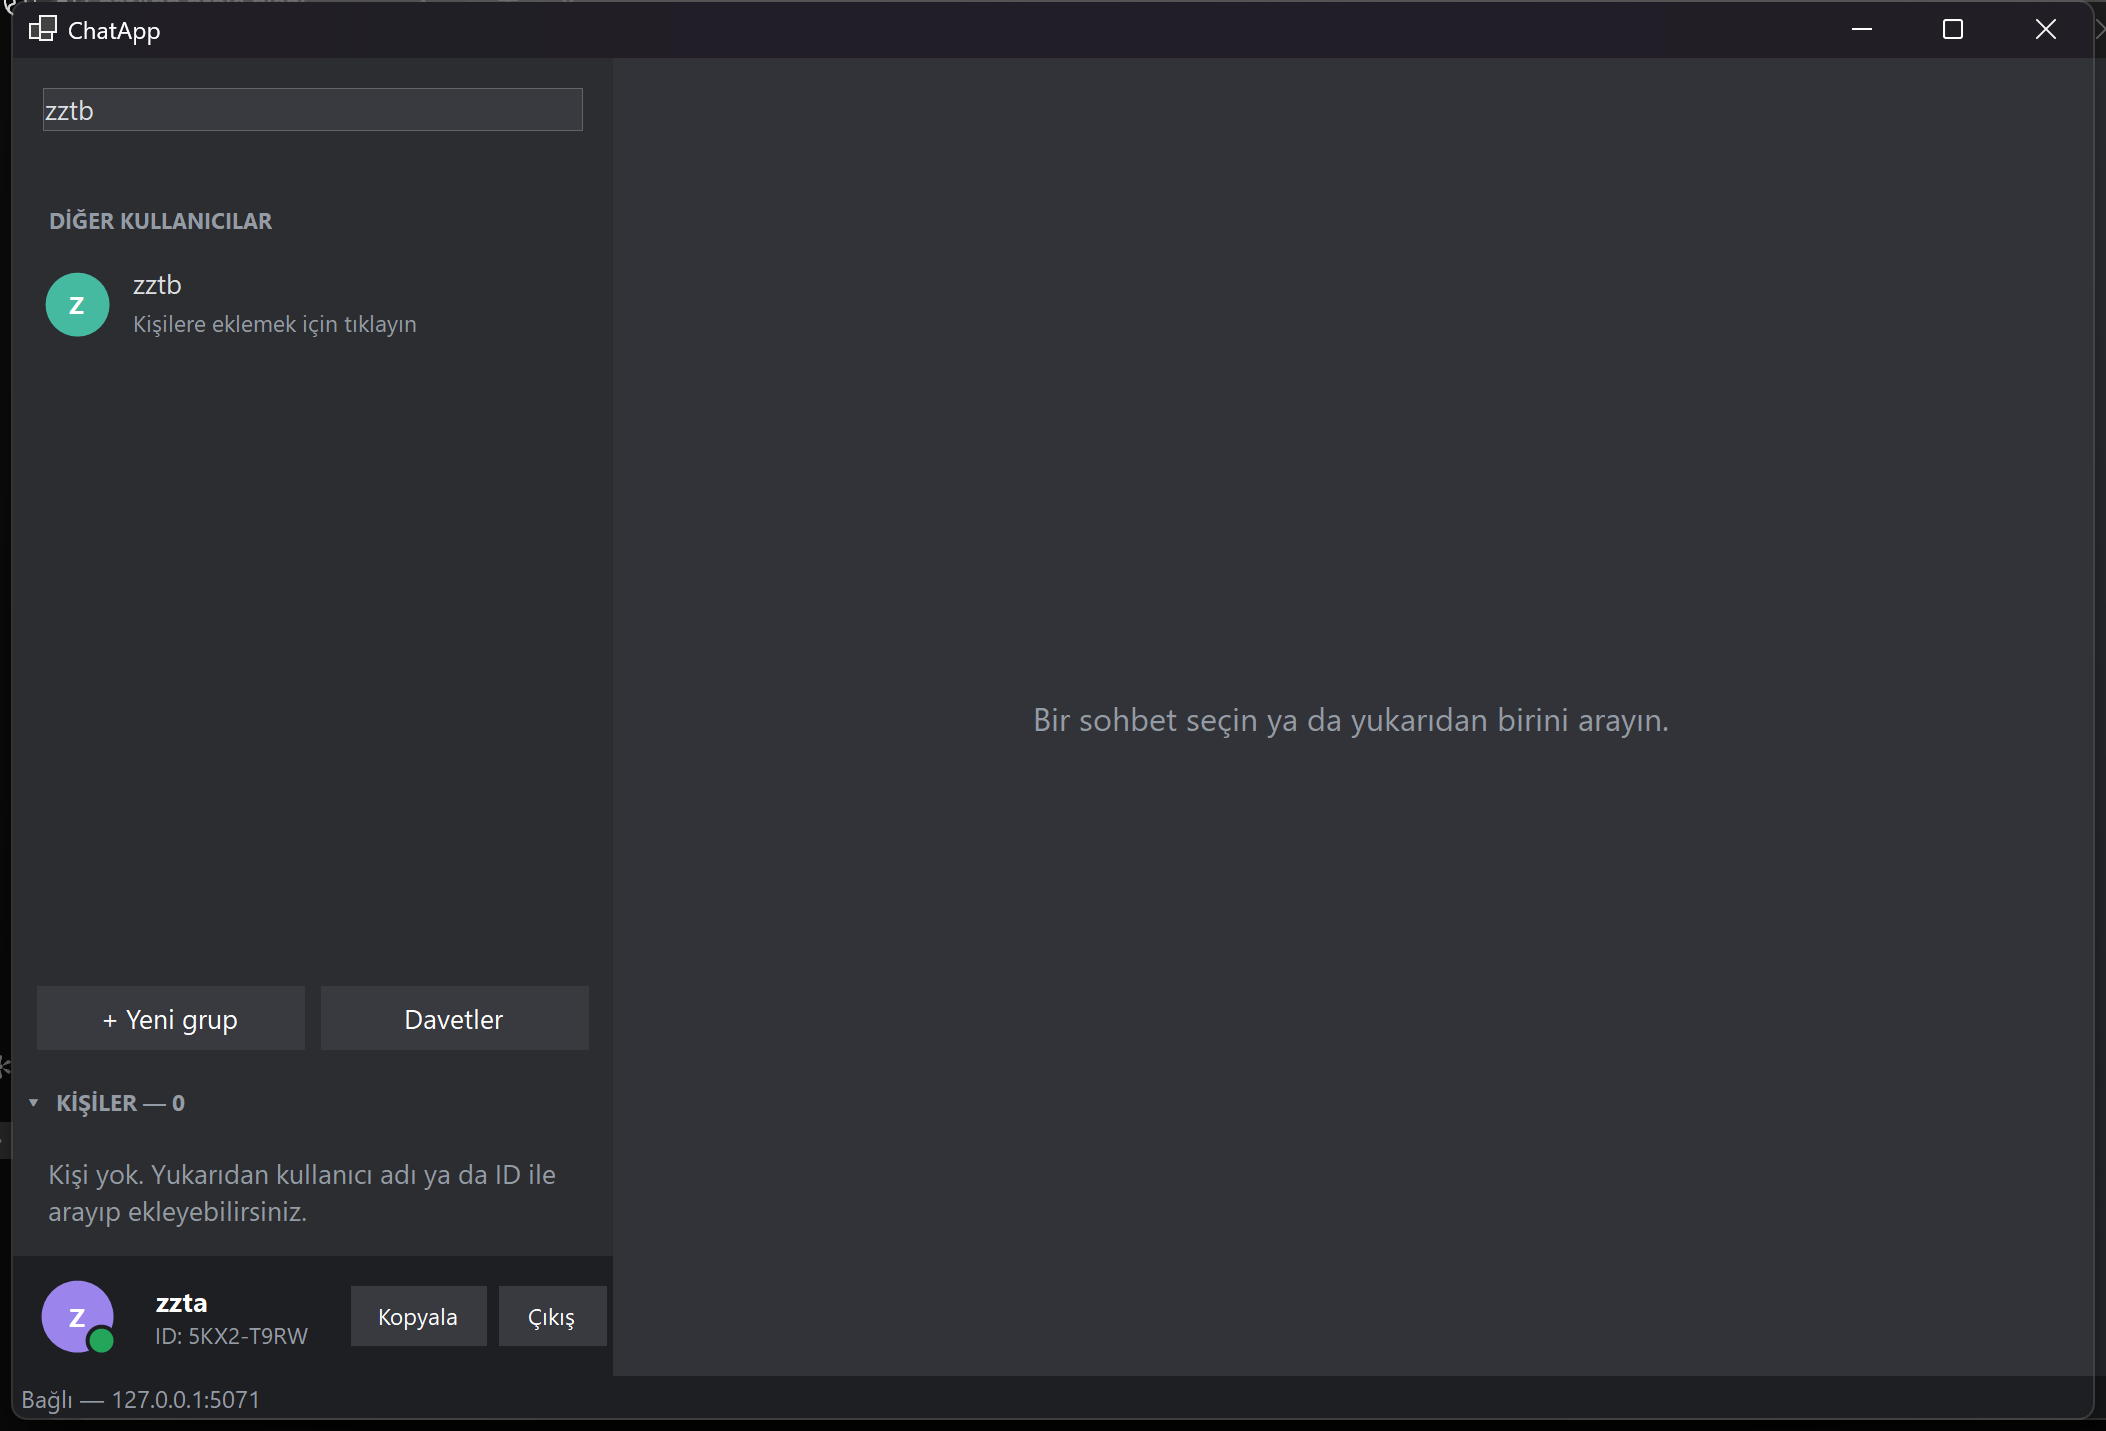
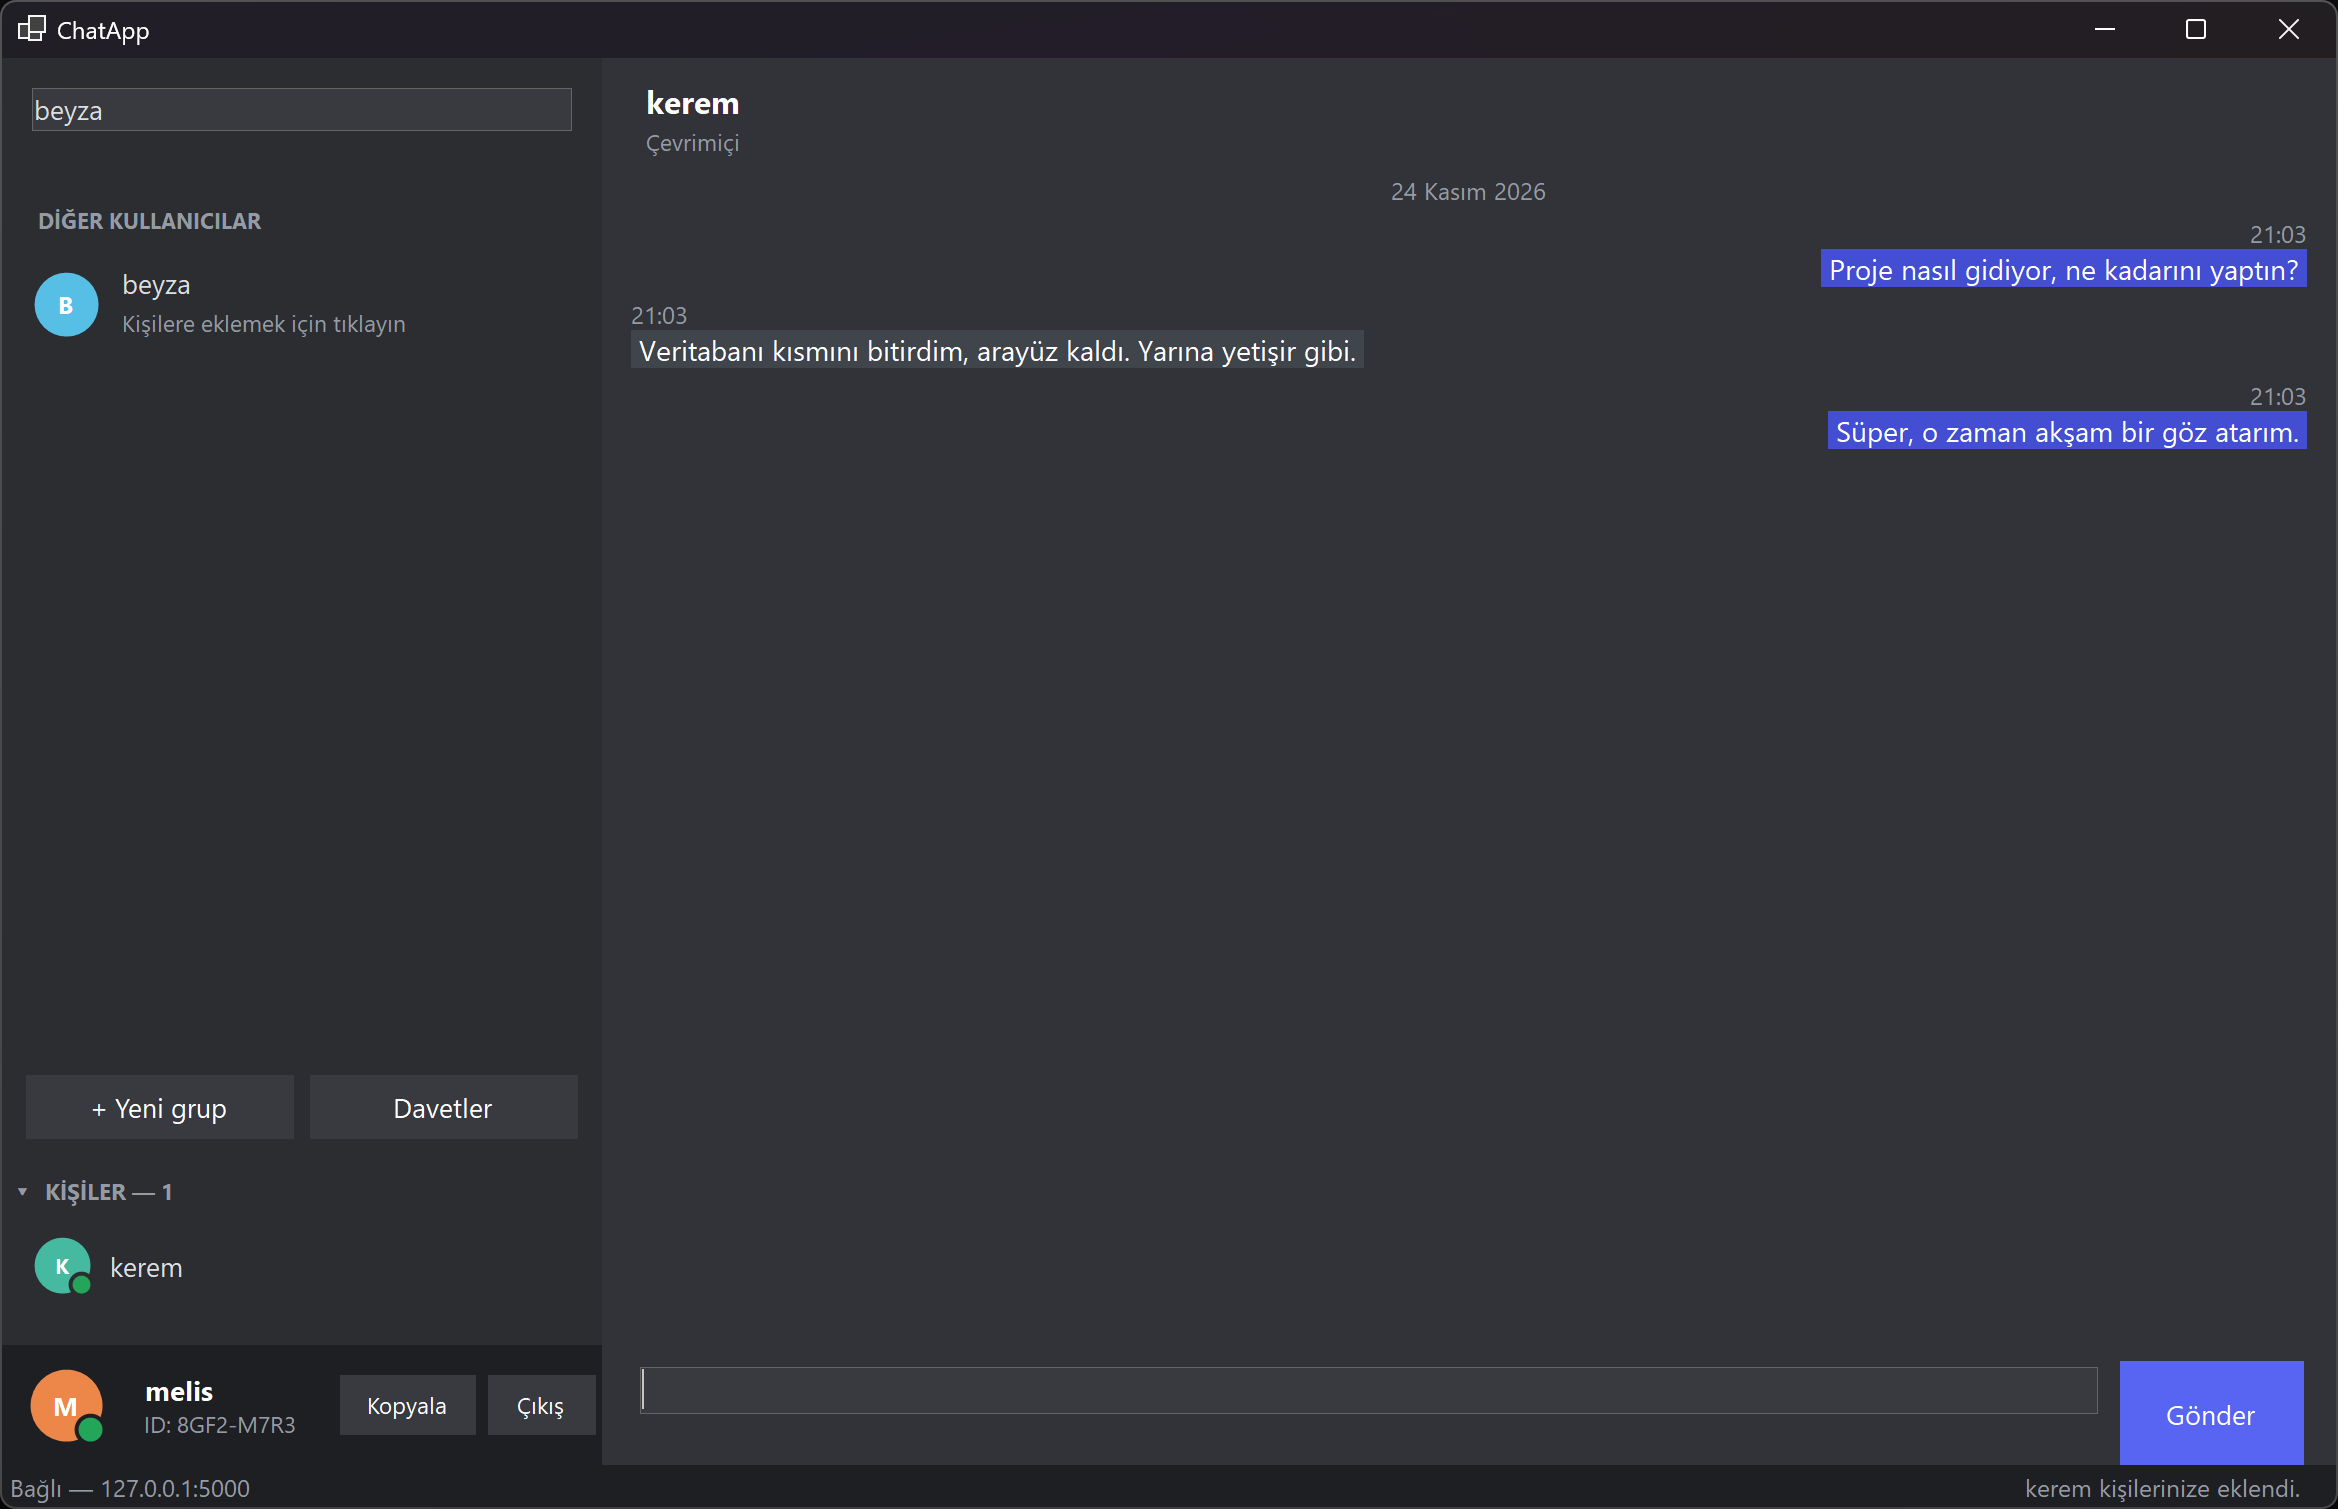
docs: add architecture sequence diagrams and refresh screenshots
Add docs/mimari.md with Mermaid sequence diagrams for the register/login
handshake, private message delivery and group message broadcast, and link
it from the README. Retake all five screenshots with realistic data on a
clean backdrop and add the search screenshot to the README.

diff --git a/docs/mimari.md b/docs/mimari.md
@@ -1,0 +1,205 @@
+# Mimari
+
+Bu belge sunucunun üç temel akışını [Mermaid](https://mermaid.js.org/) sıra diyagramlarıyla gösterir. İstemci ile sunucu arasındaki her mesaj, TCP üzerinde satır başına bir JSON nesnesi olarak (`ChatMessage`) iletilir; mesaj türü `MessageType`, hata nedeni `ErrorCode` alanındadır. Sunucu hazır hata metni göndermez, Türkçe açıklamayı istemci üretir.
+
+İlgili kodlar: `ChatServer/ChatServerHost*.cs`, `ChatServer/Storage/*Repository.cs`, `ChatShared/PasswordHasher.cs`.
+
+## 1. Kayıt / giriş el sıkışması
+
+Bağlantıdan sonra ilk mesaj, süre sınırı (`JoinTimeout`) içinde gelen geçerli bir `Register` ya da `Login` olmalıdır; aksi halde bağlantı kapatılır. Kayıt ve giriş denemeleri bağlantı adresi başına hız sınırına (`AuthAttemptLimiter`) tabidir.
+
+Zamanlama saldırısı koruması iki parçadır:
+
+- Kullanıcı adı kayıtlı olmasa bile sahte bir hash (`DummyPasswordHash`) ile gerçek bir PBKDF2 doğrulaması yapılır; yanıt süresine bakarak hangi kullanıcı adlarının var olduğu anlaşılamaz.
+- Hash karşılaştırması `CryptographicOperations.FixedTimeEquals` ile sabit sürede yapılır.
+
+Ayrıca kullanıcı adı yanlış da olsa parola yanlış da olsa istemciye aynı hata (`InvalidCredentials`) döner. Parola hiçbir zaman günlüğe yazılmaz.
+
+```mermaid
+sequenceDiagram
+    autonumber
+    actor C as İstemci
+    participant S as ChatServerHost
+    participant L as AuthAttemptLimiter
+    participant U as UserRepository
+    participant P as PasswordHasher
+
+    C->>S: TCP bağlantısı
+    alt JoinTimeout içinde mesaj gelmez
+        S--)C: bağlantıyı kapatır
+    end
+
+    C->>S: Register ya da Login (kullanıcı adı, parola)
+
+    alt Mesaj çözümlenemez
+        S-->>C: Error (InvalidMessage), bağlantı kapanır
+    else İlk mesaj Register/Login değil
+        S-->>C: Error (NotJoined), bağlantı kapanır
+    end
+
+    S->>L: TryAcquire(uç nokta)
+    alt Deneme sınırı aşıldı
+        S-->>C: JoinRejected (TooManyAttempts), bağlantı kapanır
+    end
+
+    alt RegisterRequest
+        S->>S: UsernameValidator + PasswordValidator
+        alt Kural ihlali
+            Note over S: UsernameInvalid ya da PasswordInvalid
+        else Kurallara uygun
+            S->>P: Hash(parola) [thread havuzunda]
+            P-->>S: pbkdf2-sha256$600000$tuz$hash
+            S->>U: CreateAsync(kullanıcı adı, hash)
+            alt Kullanıcı adı alınmış
+                U-->>S: null
+                Note over S: UsernameTaken
+            else Hesap oluştu
+                U-->>S: UserRecord (yeni UserId)
+            end
+        end
+    else LoginRequest
+        S->>U: FindByUsernameAsync(kullanıcı adı)
+        U-->>S: UserRecord ya da null
+        Note over S: Kullanıcı yoksa saklı hash yerine<br/>DummyPasswordHash kullanılır
+        S->>P: Verify(parola, saklı ya da sahte hash) [thread havuzunda]
+        Note over P: PBKDF2 yeniden türetilir,<br/>FixedTimeEquals ile karşılaştırılır
+        P-->>S: doğru / yanlış
+        Note over S: Kullanıcı yok ya da parola yanlış ise<br/>her ikisinde de InvalidCredentials
+    end
+
+    alt Başarısız (hata kodu != None)
+        S-->>C: JoinRejected (ErrorCode)
+        Note over S,C: UsernameTaken, UsernameInvalid, PasswordInvalid,<br/>InvalidCredentials, ServerError ...
+        S--)C: bağlantı kapanır
+    else Başarılı
+        S->>S: _membershipLock altında oturumu kaydeder
+        alt Hesap zaten çevrimiçi
+            S-->>C: JoinRejected (AccountAlreadyOnline), bağlantı kapanır
+        else Oturum kabul edildi
+            S-->>C: JoinAccepted (kullanıcı adı, UserId, çevrimiçi liste)
+            S--)C: ContactList, GroupList, InviteList
+            S--)C: Bekleyen mesajlar (bkz. Akış 2)
+        end
+    end
+```
+
+## 2. Özel mesaj teslimatı
+
+Alıcı kullanıcı adı ya da ID ile verilebilir. Çevrimiçi alıcıya mesaj doğrudan iletilir ve veritabanına yazılmaz. Alıcı çevrimdışıysa (ya da gönderim sırasında düştüyse) mesaj `PendingMessages` tablosuna eklenir ve alıcı bir sonraki girişinde teslim edilir. Mesaj içeriği sunucu günlüğüne yazılmaz.
+
+```mermaid
+sequenceDiagram
+    autonumber
+    actor A as Gönderen (A)
+    participant S as ChatServerHost
+    participant U as UserRepository
+    participant R as MessageRouter
+    participant M as MessageRepository
+    participant DB as PendingMessages
+    actor B as Alıcı (B)
+
+    A->>S: Private (alıcı, metin)
+    S->>S: Hız sınırı, metin ve alıcı doğrulaması
+    S->>U: FindByUsernameOrIdAsync(alıcı)
+    alt Alıcı yok
+        S-->>A: Error (RecipientNotFound)
+    else Alıcı kendisi
+        S-->>A: Error (InvalidMessage)
+    end
+
+    alt B çevrimiçi
+        S->>R: SendToAsync(B, Private)
+        R-->>B: Private (gönderen, metin, UTC zaman damgası)
+        S->>R: SendToAsync(A, Private)
+        R-->>A: Private (aynı kopya: iletildi onayı ve sunucu saati)
+    else B çevrimdışı (ya da gönderim sırasında düştü)
+        S->>M: EnqueueAsync(A, B, metin, UTC)
+        M->>DB: INSERT (RecipientId, SenderId, Payload, SentAt)
+        alt B'nin kutusu dolu (MaxPendingMessagesPerRecipient)
+            M-->>S: false
+            S-->>A: Error (RecipientInboxFull)
+        else Kuyruğa alındı
+            M-->>S: true
+            S->>R: SendToAsync(A, PrivateQueued)
+            R-->>A: PrivateQueued ("çevrimdışı, giriş yapınca iletilecek")
+        end
+    end
+
+    Note over B,S: --- B daha sonra bağlanır ---
+
+    B->>S: Login (bkz. Akış 1)
+    S-->>B: JoinAccepted
+    S->>M: ListPendingAsync(B)
+    M->>DB: SELECT (Id sırasıyla)
+    DB-->>M: bekleyen kayıtlar
+    M-->>S: PendingMessage listesi
+    loop Her bekleyen mesaj
+        S->>R: SendToAsync(B, Private, SentAtUtc)
+        R-->>B: Private (özgün gönderim zamanıyla)
+    end
+    S->>M: DeleteUpToAsync(B, son teslim edilen Id)
+    M->>DB: DELETE (yalnızca teslim edilenler)
+    Note over S,DB: Bağlantı yarıda koparsa kalan mesajlar silinmez,<br/>bir sonraki girişe kalır
+```
+
+## 3. Grup mesaj yayını
+
+Üye olmayan kullanıcının mesajı `GroupNotFound` ile reddedilir (grupların varlığı sızmasın diye "yok" ile "üye değil" ayırt edilmez). Mesaj her üyeye ayrı ayrı denenir; çevrimiçi üyelere anında iletilir, teslim edilemeyen çevrimdışı üyeler için tek seferde üye başına bir satır kuyruğa yazılır. Gönderenin kendisi kuyruğa alınmaz; çevrimiçi olduğu için kendi kopyasını da yayından alır.
+
+```mermaid
+sequenceDiagram
+    autonumber
+    actor A as Gönderen üye (A)
+    participant S as ChatServerHost
+    participant G as GroupRepository
+    participant R as MessageRouter
+    participant M as MessageRepository
+    participant DB as PendingMessages
+    actor B as Çevrimiçi üye (B)
+    actor C as Çevrimdışı üye (C)
+
+    A->>S: GroupMessage (grup ID, metin)
+    S->>S: Hız sınırı, metin doğrulaması
+    S->>G: GetMembersIfMemberAsync(grup, A)
+    alt A üye değil ya da grup yok
+        G-->>S: null
+        S-->>A: Error (GroupNotFound)
+    else A üye
+        G-->>S: Üye listesi (A, B, C ...)
+    end
+
+    loop Her üye için
+        alt Üye çevrimiçi
+            S->>R: SendToAsync(üye, GroupMessage)
+            R-->>B: GroupMessage (gönderen, grup ID, metin, UTC)
+            R-->>A: GroupMessage (A kendi kopyasını da alır)
+        else Üye çevrimdışı ya da gönderim başarısız
+            Note over S: Gönderen değilse offlineIds listesine eklenir
+        end
+    end
+
+    opt offlineIds boş değil
+        S->>M: EnqueueGroupAsync(A, grup, offlineIds, metin, UTC)
+        loop Her çevrimdışı üye
+            alt Üyenin kutusu dolu
+                Note over M: Bu üye atlanır, diğerleri etkilenmez
+            else Yer var
+                M->>DB: INSERT (RecipientId = C, SenderId = A, GroupId, Payload, SentAt)
+            end
+        end
+        M-->>S: kuyruğa alınan sayısı
+    end
+
+    Note over C,S: --- C daha sonra bağlanır ---
+
+    C->>S: Login (bkz. Akış 1)
+    S-->>C: JoinAccepted
+    S->>M: ListPendingAsync(C)
+    M-->>S: bekleyen kayıtlar (GroupId dolu olanlar grup mesajıdır)
+    loop Her bekleyen mesaj
+        S->>R: SendToAsync(C, GroupMessage, SentAtUtc)
+        R-->>C: GroupMessage (Recipient = grup ID)
+    end
+    S->>M: DeleteUpToAsync(C, son teslim edilen Id)
+    M->>DB: DELETE
+```
